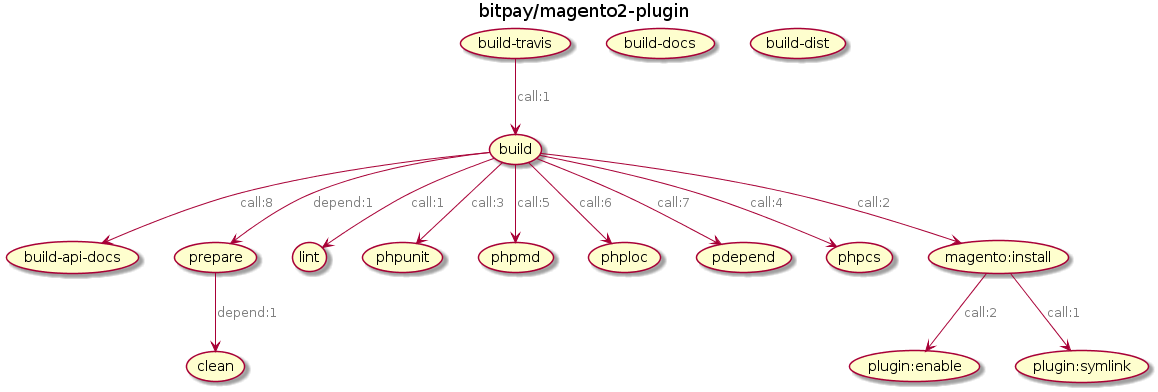
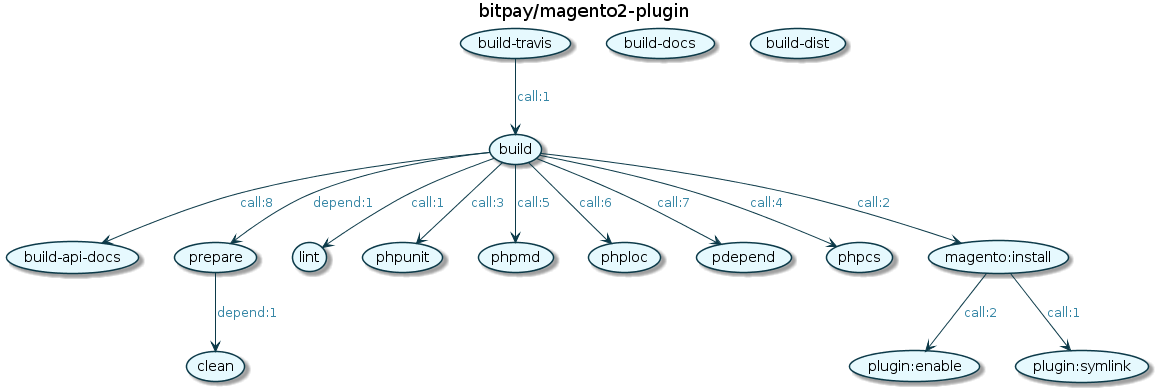
updating readme images

diff --git a/README.md b/README.md
@@ -50,7 +50,7 @@ You can go from this:
 
 To this:
 
-![Phing visualizer demo](http://jawira.com/img/phing-visualizer/demo.png)
+![Phing visualizer demo](resources/readme/demo.png)
 
 **Phing visualizer** is able to represent:
 
